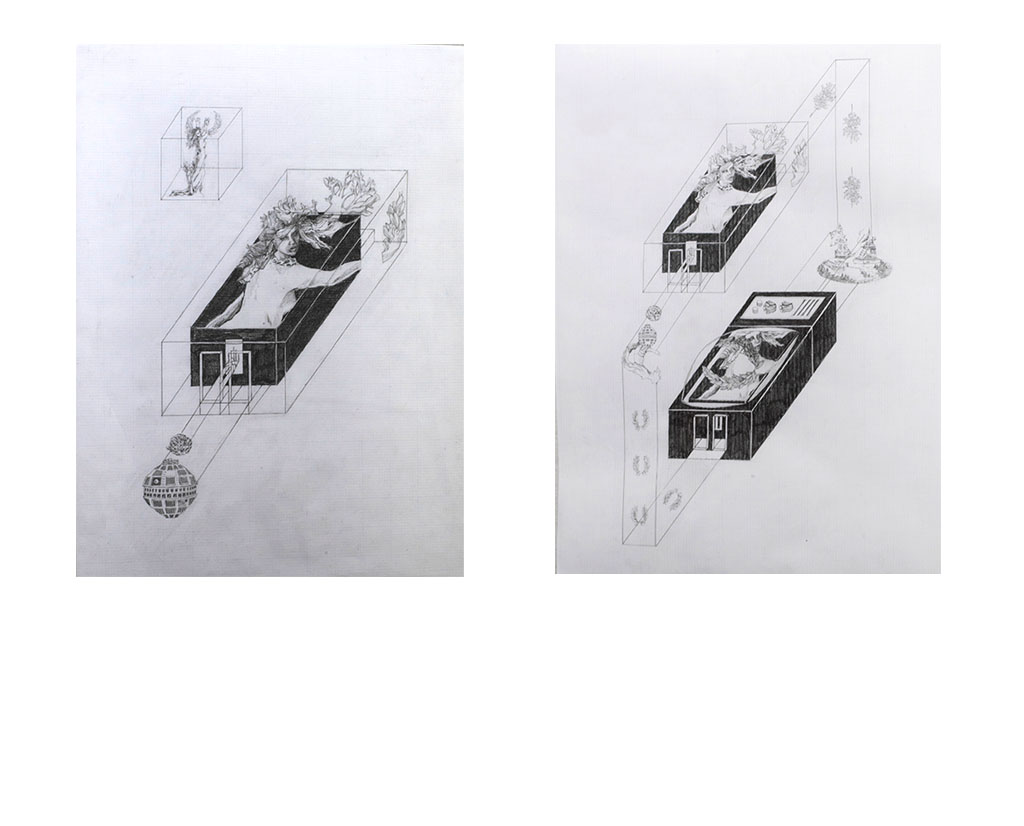
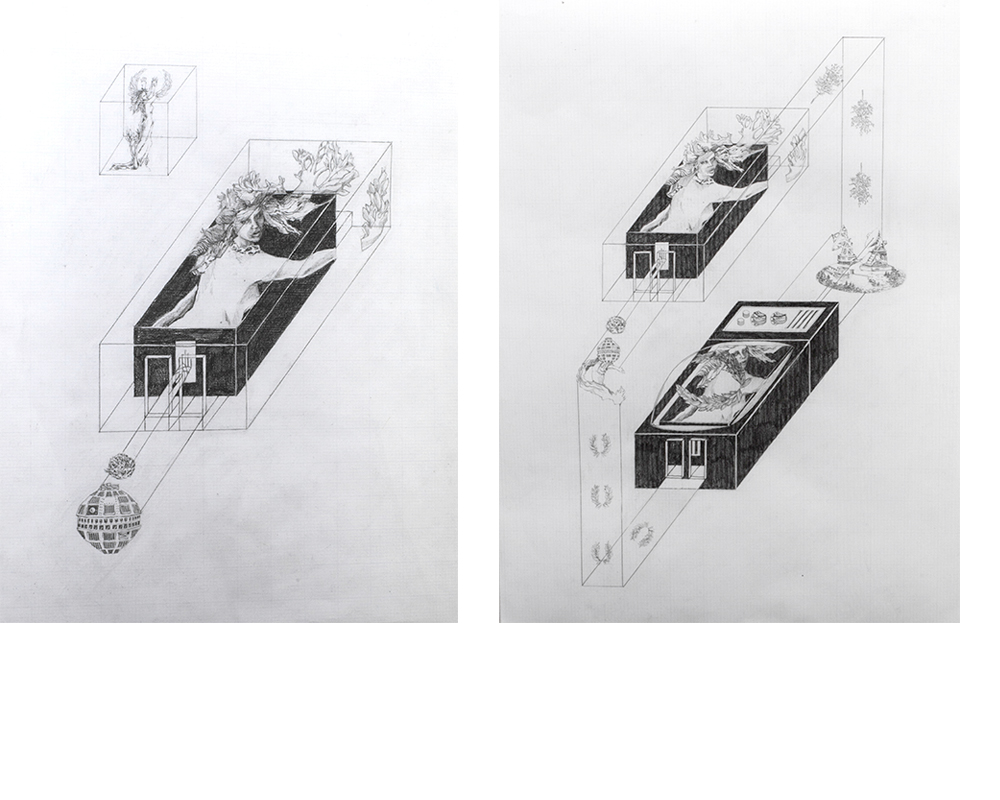
add more daphne&telstar pics

diff --git a/pages.js b/pages.js
@@ -11,7 +11,7 @@ var pages = [
         'icon' : "url(css/daphne&telstar/istamp.png)",
         'link' : " ",
         'linky' : "http://camilamercado.github.io/dds/orbit.html",       
-        'window1' : "url(css/daphne&telstar/dip.jpg)",
+        'window1' : "url(css/daphne&telstar/install.jpg)",
         'text1' : "",
         
         frames : [
@@ -21,15 +21,23 @@ var pages = [
           },
 
           { 
+            image : "url(css/daphne&telstar/dip.jpg)"
+          },
+
+          { 
             image : "url(css/daphne&telstar/daphs.jpg)"
           },
-          
+
           { 
             image : "url(css/daphne&telstar/shelf.png)"
           },
 
           { 
-            image : "url(css/daphne&telstar/dipp.jpg)"
+            image : "url(css/daphne&telstar/layout.jpg)"
+          },
+
+          { 
+            image : "url(css/daphne&telstar/telsplice+.jpg)"
           },
 
           { 

diff --git a/css/template.css b/css/template.css
@@ -100,11 +100,12 @@ a:hover {
 .window1 {
 	width: auto;
 	height: auto;
-	min-height: 500px;
+	min-height: 800px;
 	/*border: 1px solid tomato;*/
 	margin-bottom: 20px;
-	background-repeat: repeat-x;
+	background-repeat: no-repeat;
 	background-size: 800px auto;
+	cursor: e-resize !important;
 }
 
 .window1:hover {
